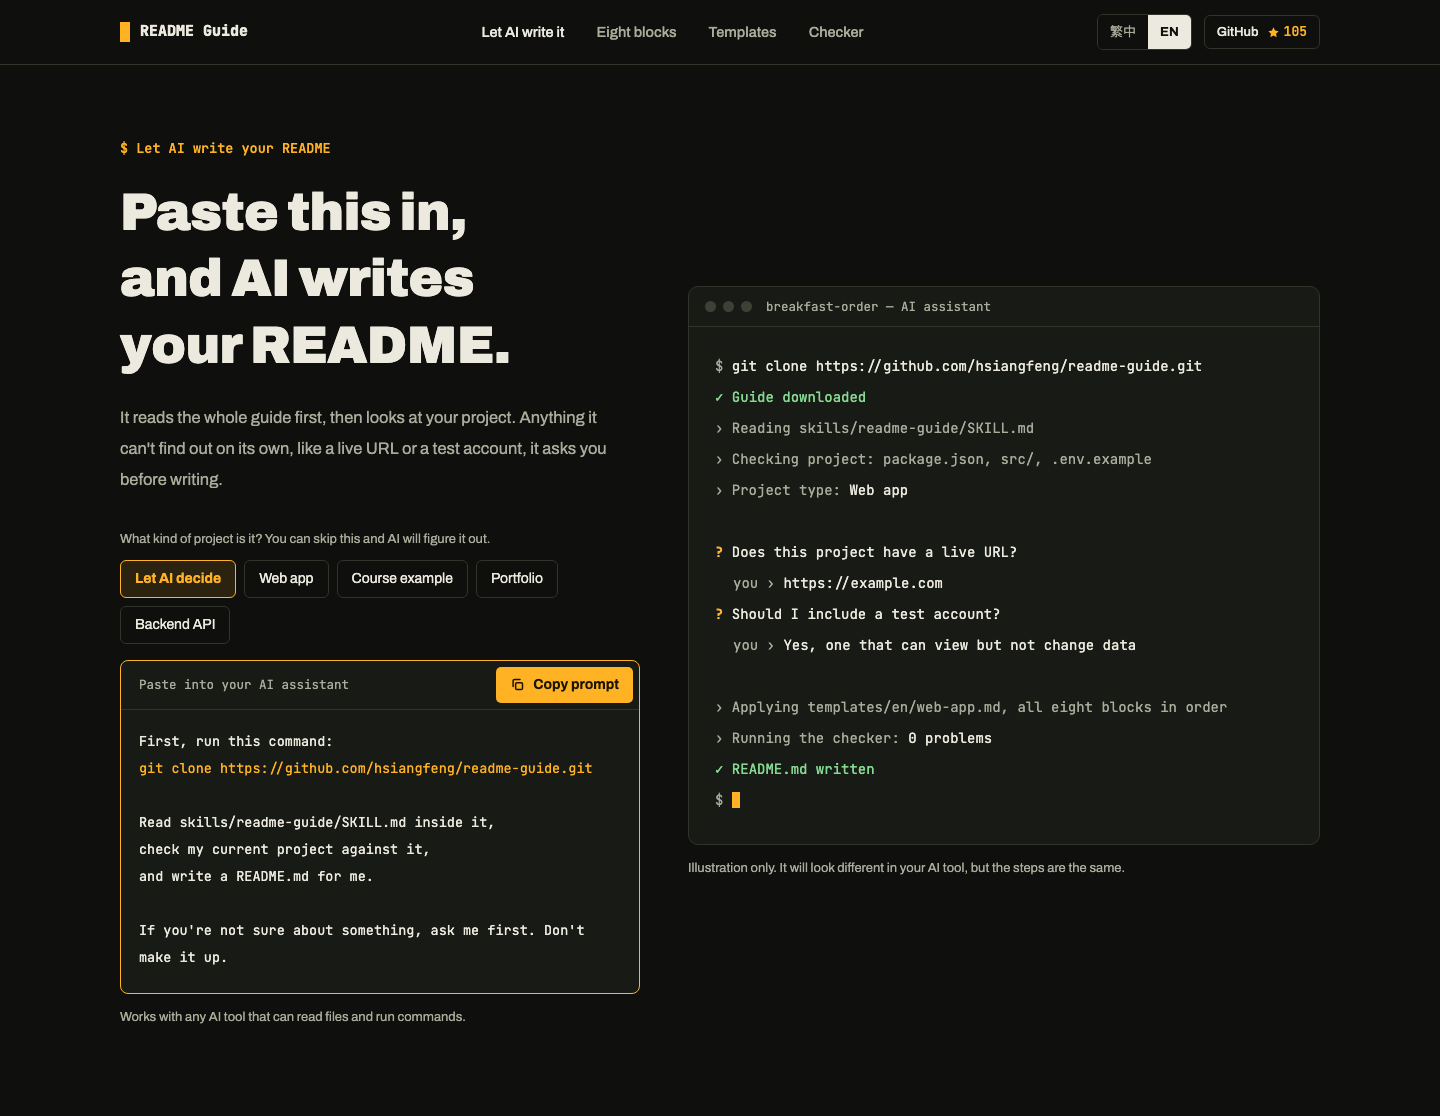
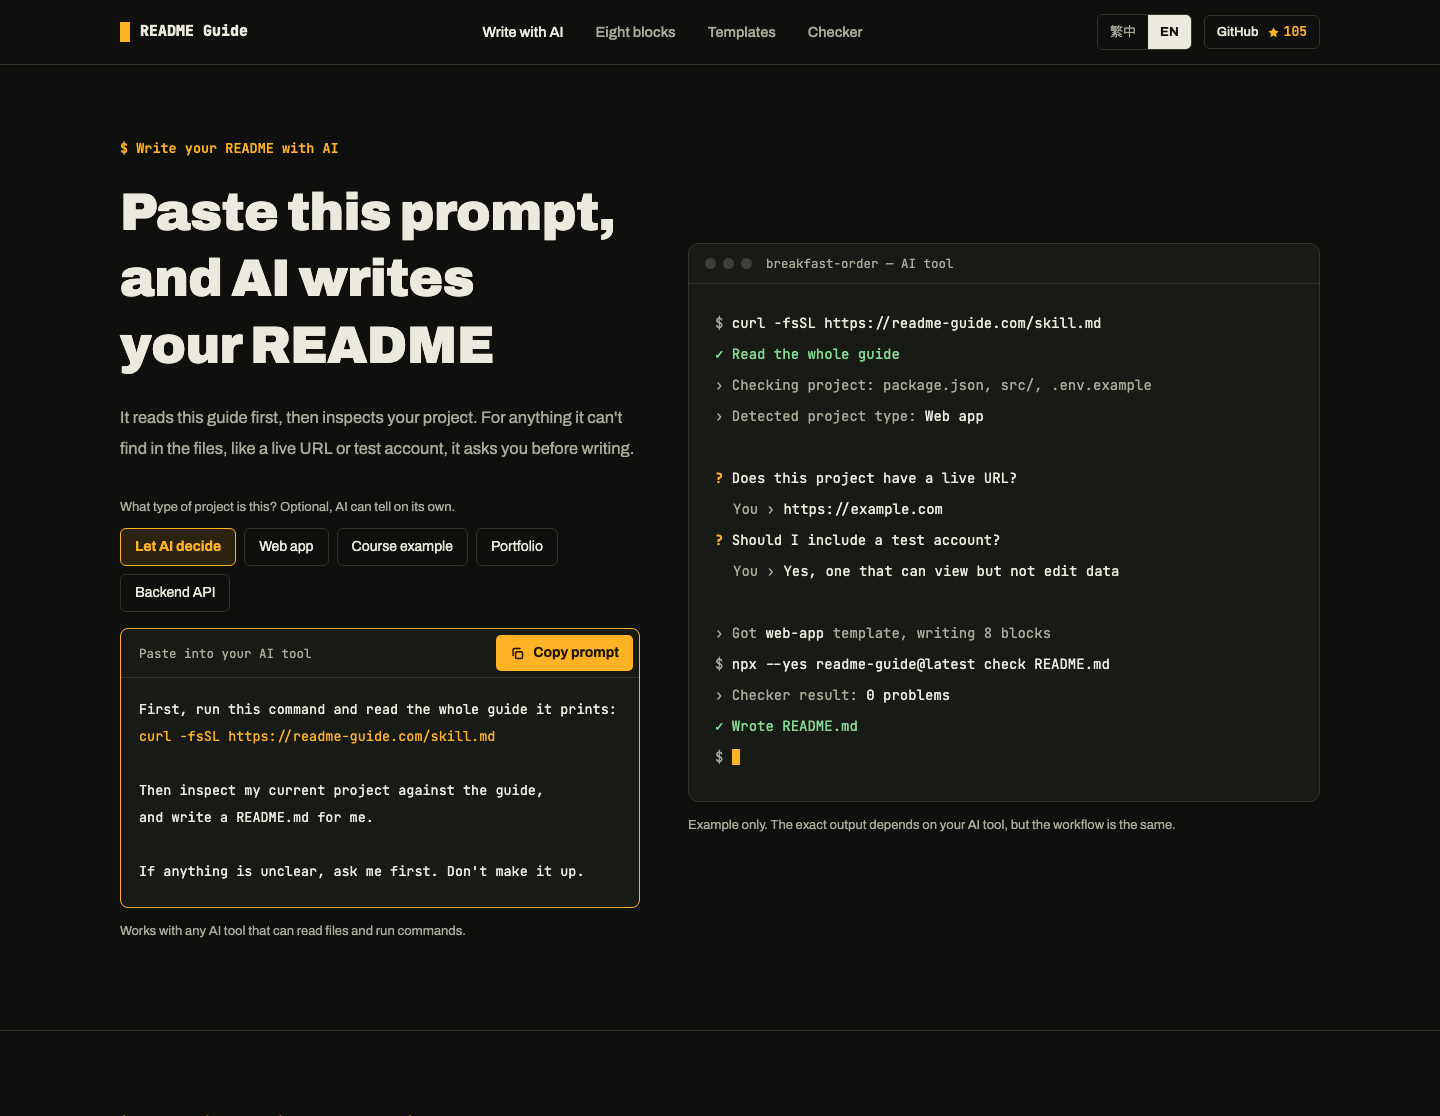
docs: ✏ README 改用 curl 與 npx 的新指令並重拍首頁截圖
- 交給 AI 寫與跑檢查工具兩段不再叫人下載整份專案
- 貢獻文件補上套件打包與給 AI 的規則的注意事項
- 檢查工具測試用的 README 複本同步更新

diff --git a/README.md b/README.md
@@ -19,7 +19,7 @@ Status: maintained
 - [x] Eight-block structure: why each block exists, what to write, common mistakes, and fixed examples
 - [x] Templates for four project types (web app, course example, portfolio, backend API) in English and Traditional Chinese
 - [x] Copy-paste prompt for AI: reads the rules and project files first, asks about anything it cannot find, and runs the checker after writing
-- [x] Zero-dependency checker: compares the README against project config files to catch mismatched commands, versions, environment variables, and licenses
+- [x] Zero-dependency checker: compares the README against project config files to catch mismatched commands, versions, environment variables, and licenses; runs with one `npx` command and adds nothing to your project
 - [x] Machine-readable checker output for AI tools
 
 ## Tech Stack
@@ -69,14 +69,13 @@ pnpm --filter readme-guide test
 Paste the following prompt into an AI tool that can read files and run commands:
 
 ```text
-First, run this command:
-git clone https://github.com/hsiangfeng/readme-guide.git
+First, run this command and read the whole guide it prints:
+curl -fsSL https://readme-guide.com/skill.md
 
-Read skills/readme-guide/SKILL.md inside it,
-check my current project against it,
+Then inspect my current project against the guide,
 and write a README.md for me.
 
-If you're not sure about something, ask me first. Don't make it up.
+If anything is unclear, ask me first. Don't make it up.
 ```
 
 ### Write from a Template
@@ -85,14 +84,13 @@ Templates live in `templates/en/` and `templates/zh-TW/`, with one file for each
 
 ### Run the Checker
 
-In your project folder, run:
+In your project folder, run (requires Node.js 22 or later):
 
 ```bash
-git clone https://github.com/hsiangfeng/readme-guide.git
-node readme-guide/lint/bin/readme-guide.mjs check README.md
+npx readme-guide@latest check README.md
 ```
 
-The exit code is `1` when there are errors, and `0` when there are only warnings or no issues. Add `--type` to specify the project type (`web-app`, `course-example`, `portfolio`, `backend-api`), and `--json` for output formatted for AI to read. Delete the `readme-guide/` folder when you are done; do not commit it with your project.
+The exit code is `1` when there are errors, and `0` when there are only warnings or no issues. Add `--type` to specify the project type (`web-app`, `course-example`, `portfolio`, `backend-api`), and `--json` for output formatted for AI to read. To read the full explanation of one rule, such as `CMD004`, run `npx readme-guide@latest explain CMD004`.
 
 ## Project Structure
 
@@ -100,7 +98,7 @@ The exit code is `1` when there are errors, and `0` when there are only warnings
 rules/      Single source of truth: block order, headings, required sections, check rules
 templates/  README templates for the four project types
 skills/     Writing rules for AI
-lint/       README checker
+lint/       README checker (published to npm as readme-guide)
 site/       Website for readme-guide.com
 ```
 

diff --git a/lint/fixtures/self-readme/README.md b/lint/fixtures/self-readme/README.md
@@ -19,7 +19,7 @@ Status: maintained
 - [x] Eight-block structure: why each block exists, what to write, common mistakes, and fixed examples
 - [x] Templates for four project types (web app, course example, portfolio, backend API) in English and Traditional Chinese
 - [x] Copy-paste prompt for AI: reads the rules and project files first, asks about anything it cannot find, and runs the checker after writing
-- [x] Zero-dependency checker: compares the README against project config files to catch mismatched commands, versions, environment variables, and licenses
+- [x] Zero-dependency checker: compares the README against project config files to catch mismatched commands, versions, environment variables, and licenses; runs with one `npx` command and adds nothing to your project
 - [x] Machine-readable checker output for AI tools
 
 ## Tech Stack
@@ -69,14 +69,13 @@ pnpm --filter readme-guide test
 Paste the following prompt into an AI tool that can read files and run commands:
 
 ```text
-First, run this command:
-git clone https://github.com/hsiangfeng/readme-guide.git
+First, run this command and read the whole guide it prints:
+curl -fsSL https://readme-guide.com/skill.md
 
-Read skills/readme-guide/SKILL.md inside it,
-check my current project against it,
+Then inspect my current project against the guide,
 and write a README.md for me.
 
-If you're not sure about something, ask me first. Don't make it up.
+If anything is unclear, ask me first. Don't make it up.
 ```
 
 ### Write from a Template
@@ -85,14 +84,13 @@ Templates live in `templates/en/` and `templates/zh-TW/`, with one file for each
 
 ### Run the Checker
 
-In your project folder, run:
+In your project folder, run (requires Node.js 22 or later):
 
 ```bash
-git clone https://github.com/hsiangfeng/readme-guide.git
-node readme-guide/lint/bin/readme-guide.mjs check README.md
+npx readme-guide@latest check README.md
 ```
 
-The exit code is `1` when there are errors, and `0` when there are only warnings or no issues. Add `--type` to specify the project type (`web-app`, `course-example`, `portfolio`, `backend-api`), and `--json` for output formatted for AI to read. Delete the `readme-guide/` folder when you are done; do not commit it with your project.
+The exit code is `1` when there are errors, and `0` when there are only warnings or no issues. Add `--type` to specify the project type (`web-app`, `course-example`, `portfolio`, `backend-api`), and `--json` for output formatted for AI to read. To read the full explanation of one rule, such as `CMD004`, run `npx readme-guide@latest explain CMD004`.
 
 ## Project Structure
 
@@ -100,7 +98,7 @@ The exit code is `1` when there are errors, and `0` when there are only warnings
 rules/      Single source of truth: block order, headings, required sections, check rules
 templates/  README templates for the four project types
 skills/     Writing rules for AI
-lint/       README checker
+lint/       README checker (published to npm as readme-guide)
 site/       Website for readme-guide.com
 ```
 

diff --git a/README.zh-TW.md b/README.zh-TW.md
@@ -19,7 +19,7 @@
 - [x] 八塊結構：每一塊為什麼要有、要寫什麼、常見的錯與改好的樣子
 - [x] 四種專案的範本（網頁專案、課程範例、作品集、後端 API），繁體中文與英文各一份
 - [x] 一段貼給 AI 的指令：AI 會先讀規則、看專案檔案，查不到的事先問，寫完自己跑檢查
-- [x] 檢查工具：拿 README 對照專案裡的設定檔，抓出指令、版本、環境變數、授權對不起來的地方；不用安裝任何套件
+- [x] 檢查工具：拿 README 對照專案裡的設定檔，抓出指令、版本、環境變數、授權對不起來的地方；用 npx 一行就能跑，不會裝進專案
 - [x] 檢查結果可以輸出成給 AI 讀的格式
 
 ## 使用技術
@@ -69,10 +69,9 @@ pnpm --filter readme-guide test
 把下面這段貼給讀得了檔案、跑得了指令的 AI 工具：
 
 ```text
-請先執行這行指令：
-git clone https://github.com/hsiangfeng/readme-guide.git
+請先執行這行指令，把印出來的撰寫指南完整讀完：
+curl -fsSL https://readme-guide.com/skill.md
 
-讀完裡面的 skills/readme-guide/SKILL.md，
 照著它檢查我現在這個專案，
 幫我寫一份 README.md。
 
@@ -85,14 +84,13 @@ git clone https://github.com/hsiangfeng/readme-guide.git
 
 ### 跑檢查工具
 
-在自己的專案資料夾裡執行：
+在自己的專案資料夾裡執行（需要 Node.js 22 以上）：
 
 ```bash
-git clone https://github.com/hsiangfeng/readme-guide.git
-node readme-guide/lint/bin/readme-guide.mjs check README.md
+npx readme-guide@latest check README.md
 ```
 
-有錯誤時結束代碼是 `1`，只有警告或沒有問題是 `0`。加 `--type` 可以指定專案類型（`web-app`、`course-example`、`portfolio`、`backend-api`），加 `--json` 輸出給 AI 讀的格式。用完把 `readme-guide/` 資料夾刪掉，不要跟著專案一起 commit。
+有錯誤時結束代碼是 `1`，只有警告或沒有問題是 `0`。加 `--type` 可以指定專案類型（`web-app`、`course-example`、`portfolio`、`backend-api`），加 `--json` 輸出給 AI 讀的格式。想看某一條規則的完整說明，例如 `CMD004`，執行 `npx readme-guide@latest explain CMD004`。
 
 ## 資料夾結構
 
@@ -100,7 +98,7 @@ node readme-guide/lint/bin/readme-guide.mjs check README.md
 rules/      規則的單一來源：八塊順序、正式標題、必填章節、每一條檢查規則
 templates/  四種專案的 README 範本
 skills/     給 AI 的撰寫規則
-lint/       檢查工具
+lint/       檢查工具（發佈成 npm 套件 readme-guide）
 site/       readme-guide.com 的網站
 ```
 

diff --git a/lint/fixtures/self-readme/README.zh-TW.md b/lint/fixtures/self-readme/README.zh-TW.md
@@ -19,7 +19,7 @@
 - [x] 八塊結構：每一塊為什麼要有、要寫什麼、常見的錯與改好的樣子
 - [x] 四種專案的範本（網頁專案、課程範例、作品集、後端 API），繁體中文與英文各一份
 - [x] 一段貼給 AI 的指令：AI 會先讀規則、看專案檔案，查不到的事先問，寫完自己跑檢查
-- [x] 檢查工具：拿 README 對照專案裡的設定檔，抓出指令、版本、環境變數、授權對不起來的地方；不用安裝任何套件
+- [x] 檢查工具：拿 README 對照專案裡的設定檔，抓出指令、版本、環境變數、授權對不起來的地方；用 npx 一行就能跑，不會裝進專案
 - [x] 檢查結果可以輸出成給 AI 讀的格式
 
 ## 使用技術
@@ -69,10 +69,9 @@ pnpm --filter readme-guide test
 把下面這段貼給讀得了檔案、跑得了指令的 AI 工具：
 
 ```text
-請先執行這行指令：
-git clone https://github.com/hsiangfeng/readme-guide.git
+請先執行這行指令，把印出來的撰寫指南完整讀完：
+curl -fsSL https://readme-guide.com/skill.md
 
-讀完裡面的 skills/readme-guide/SKILL.md，
 照著它檢查我現在這個專案，
 幫我寫一份 README.md。
 
@@ -85,14 +84,13 @@ git clone https://github.com/hsiangfeng/readme-guide.git
 
 ### 跑檢查工具
 
-在自己的專案資料夾裡執行：
+在自己的專案資料夾裡執行（需要 Node.js 22 以上）：
 
 ```bash
-git clone https://github.com/hsiangfeng/readme-guide.git
-node readme-guide/lint/bin/readme-guide.mjs check README.md
+npx readme-guide@latest check README.md
 ```
 
-有錯誤時結束代碼是 `1`，只有警告或沒有問題是 `0`。加 `--type` 可以指定專案類型（`web-app`、`course-example`、`portfolio`、`backend-api`），加 `--json` 輸出給 AI 讀的格式。用完把 `readme-guide/` 資料夾刪掉，不要跟著專案一起 commit。
+有錯誤時結束代碼是 `1`，只有警告或沒有問題是 `0`。加 `--type` 可以指定專案類型（`web-app`、`course-example`、`portfolio`、`backend-api`），加 `--json` 輸出給 AI 讀的格式。想看某一條規則的完整說明，例如 `CMD004`，執行 `npx readme-guide@latest explain CMD004`。
 
 ## 資料夾結構
 
@@ -100,7 +98,7 @@ node readme-guide/lint/bin/readme-guide.mjs check README.md
 rules/      規則的單一來源：八塊順序、正式標題、必填章節、每一條檢查規則
 templates/  四種專案的 README 範本
 skills/     給 AI 的撰寫規則
-lint/       檢查工具
+lint/       檢查工具（發佈成 npm 套件 readme-guide）
 site/       readme-guide.com 的網站
 ```
 

diff --git a/CONTRIBUTING.md b/CONTRIBUTING.md
@@ -41,10 +41,10 @@ Open http://localhost:3000 in your browser; once you see the home page, it is ru
 | What you want to change | Change it here | Keep in mind |
 | ---- | ---- | ---- |
 | Rules: block order, official headings, required sections, and check rule text | `rules/` | This is the single source of truth. The checker, the rules for AI, and the website all read from here, so never hardcode block order, headings, or required sections elsewhere. See `rules/README.md` for field details |
-| Checker logic | `lint/src/checks/` | Every check rule needs both a passing and a failing test; do not add any dependencies |
+| Checker logic | `lint/src/checks/` | Every check rule needs both a passing and a failing test; do not add any dependencies. The checker is published to npm as `readme-guide`; packing copies `rules/` into the package, so never commit a copy under `lint/` |
 | Templates | `templates/zh-TW/`, `templates/en/` | Update both languages together, line for line; when checked with the matching `--type`, a template may only report blanks still to fill in (`STR015`) |
 | Guide content for each block | `site/content/guide/` | See `site/content/guide/README.md` for the file format |
-| Rules for AI | `skills/readme-guide/` | Keep `SKILL.md` concise; put detailed rules in `references/` |
+| Rules for AI | `skills/readme-guide/` | Keep `SKILL.md` concise; put detailed rules in `references/`. The website serves these files word for word, so they must work without the rest of this repository: point to readme-guide.com URLs and the npm checker, not to repository paths |
 | Website | `site/` | Block order, headings, and rule counts are computed from `rules/`, never hardcoded |
 
 ## Before you send it

diff --git a/CONTRIBUTING.zh-TW.md b/CONTRIBUTING.zh-TW.md
@@ -41,10 +41,10 @@ pnpm dev
 | 想改的東西 | 改這裡 | 注意 |
 | ---- | ---- | ---- |
 | 規則：八塊順序、正式標題、必填章節、每條檢查規則的說明 | `rules/` | 這裡是唯一的規則來源，檢查工具、給 AI 的規則與網站都從這裡讀取，其他地方不要把順序、標題或必填章節寫死。欄位說明見 `rules/README.md` |
-| 檢查工具怎麼判斷 | `lint/src/checks/` | 每條檢查規則都要有「會過」和「不會過」的測試；檢查工具不加任何相依套件 |
+| 檢查工具怎麼判斷 | `lint/src/checks/` | 每條檢查規則都要有「會過」和「不會過」的測試；檢查工具不加任何相依套件。檢查工具會發佈成 npm 套件 `readme-guide`，打包時才把 `rules/` 複製進套件，不要把複本 commit 到 `lint/` 底下 |
 | 範本 | `templates/zh-TW/`、`templates/en/` | 繁體中文與英文一起改，維持逐行對應；加上對應的 `--type` 跑檢查工具時，只能剩「還有沒填的地方」（`STR015`）這一種問題 |
 | 每一塊的教學內容 | `site/content/guide/` | 撰寫格式見 `site/content/guide/README.md` |
-| 給 AI 的規則 | `skills/readme-guide/` | `SKILL.md` 保持精簡，細節放在 `references/` |
+| 給 AI 的規則 | `skills/readme-guide/` | `SKILL.md` 保持精簡，細節放在 `references/`。網站會原封不動提供這些檔案，所以不能依賴這個儲存庫的其他檔案：要指向 readme-guide.com 的網址與 npm 上的檢查工具，不要寫儲存庫裡的路徑 |
 | 網站 | `site/` | 順序、標題與規則數量都從 `rules/` 讀取計算，不要寫死 |
 
 ## 送出之前
